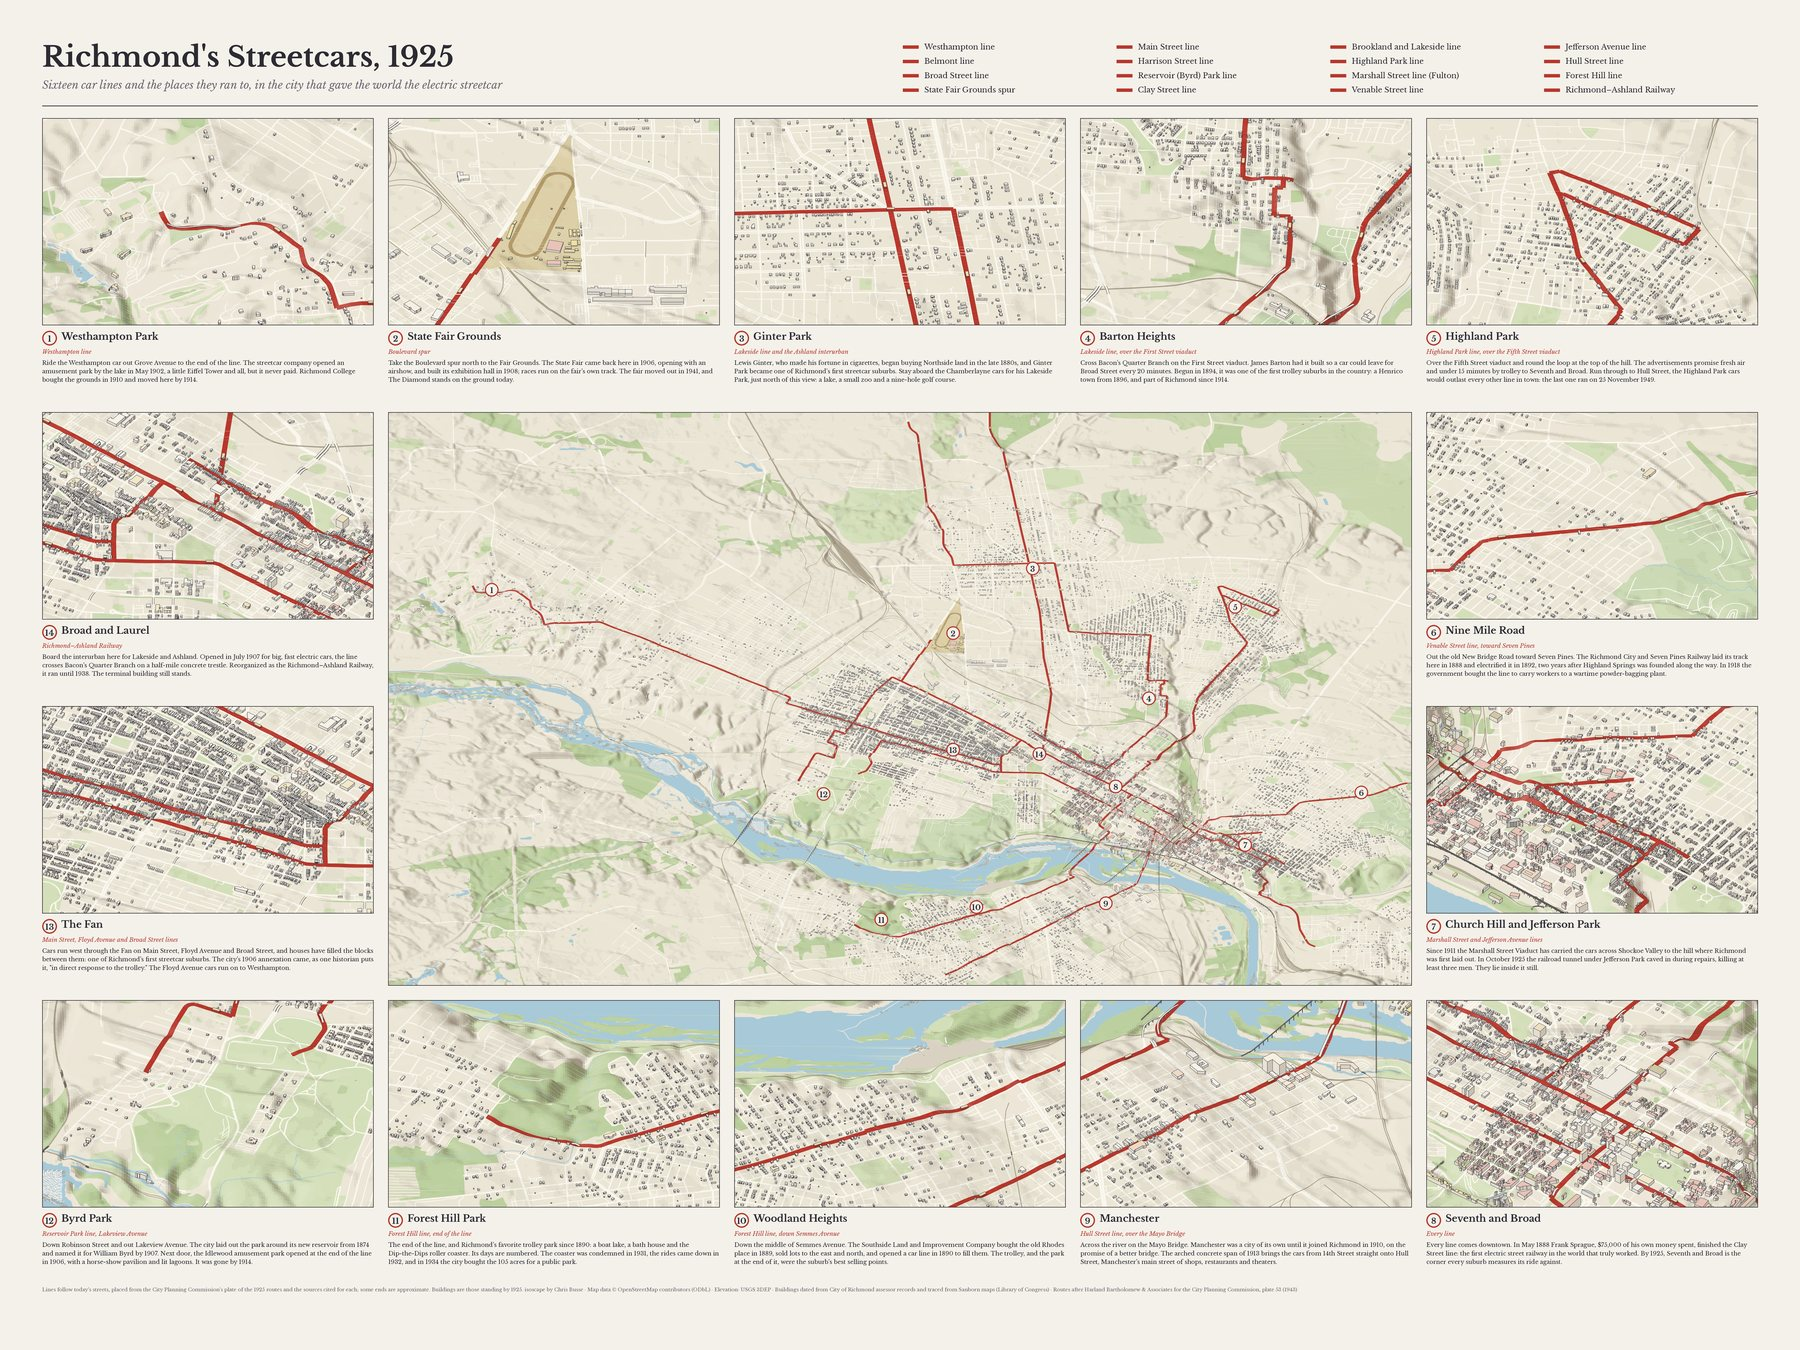
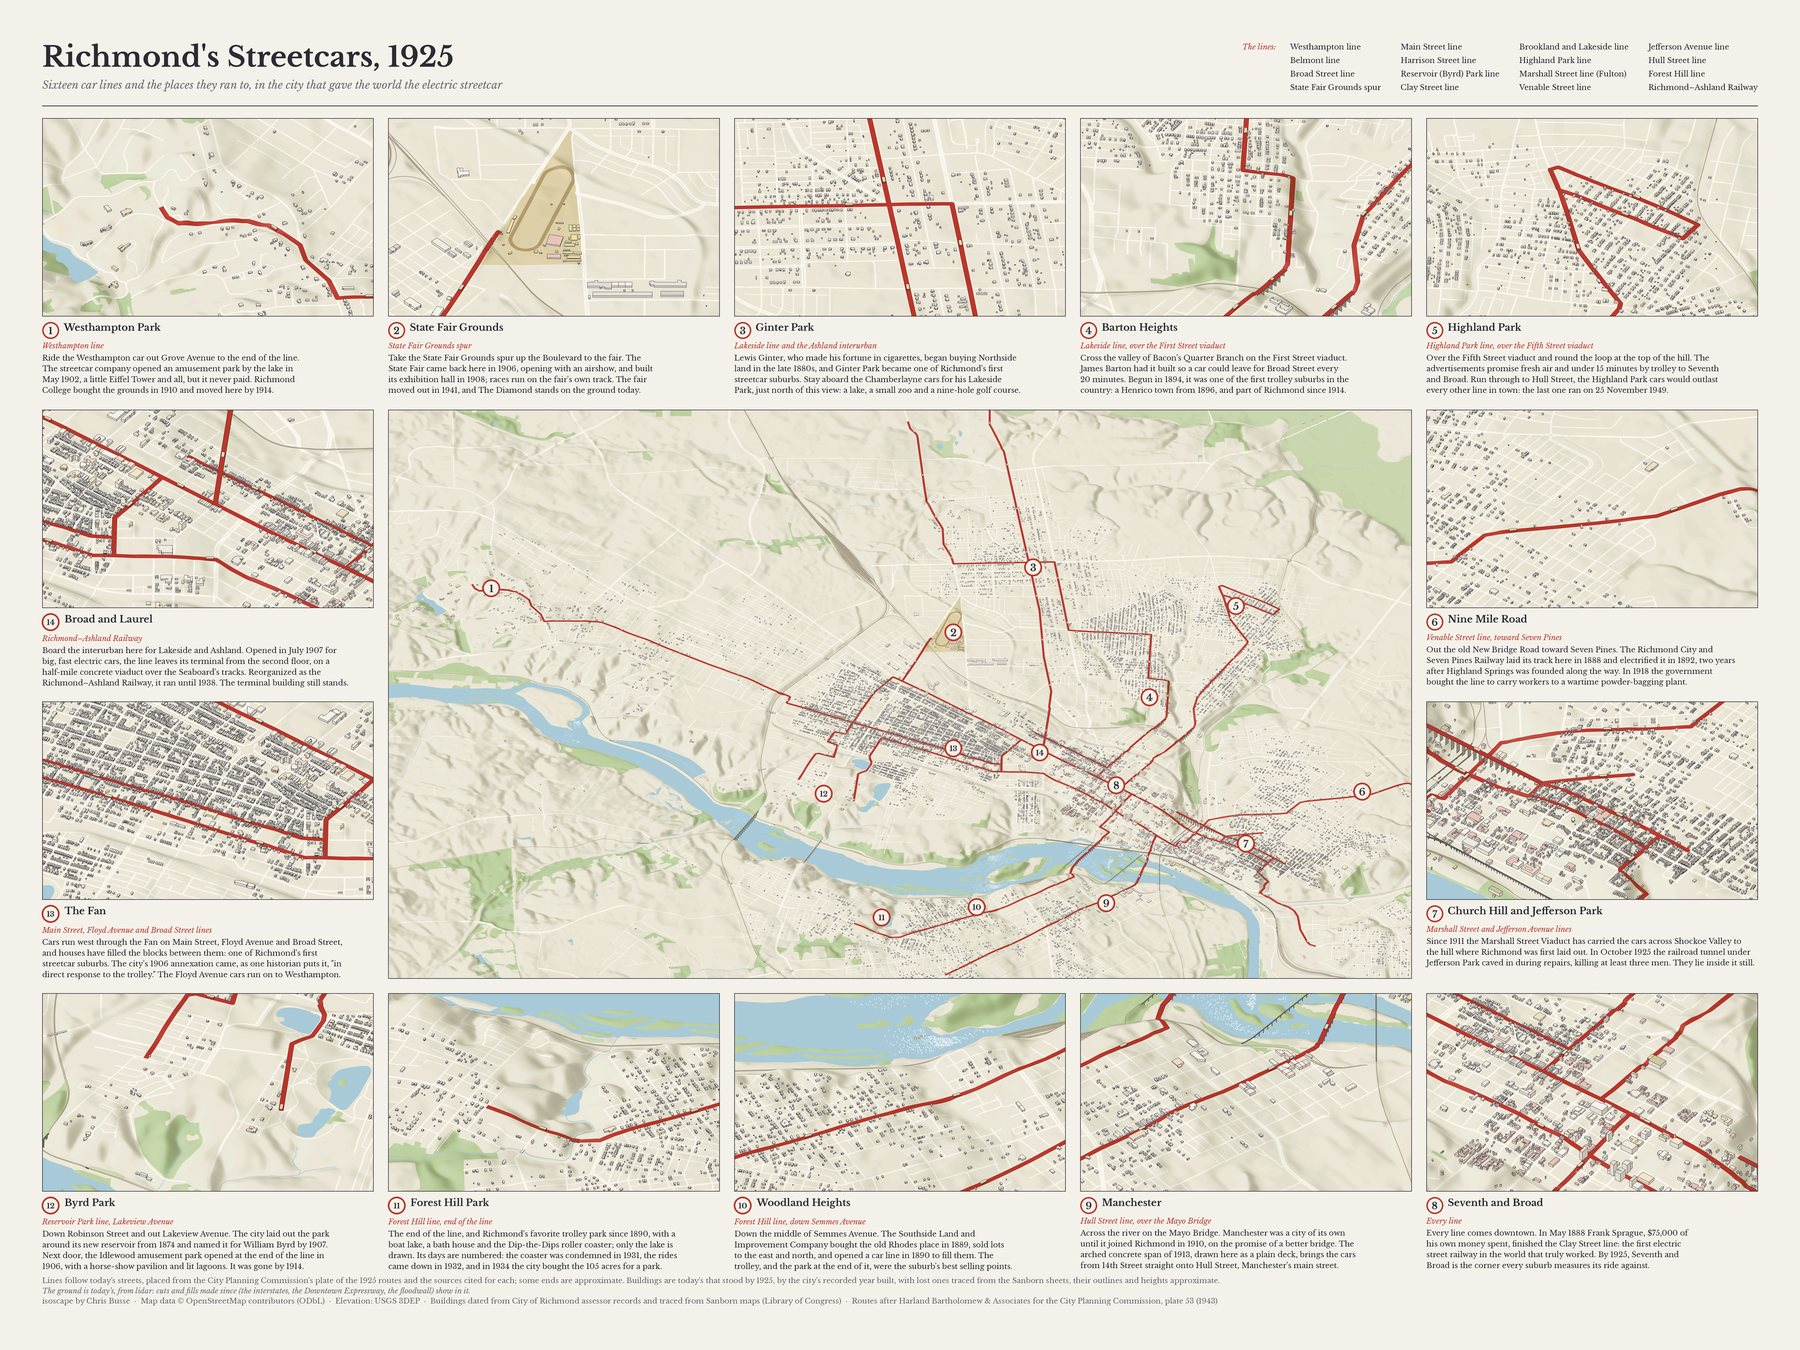
Streetcars page: regenerated from the set (box 2 named the State Fair Grounds spur; box 4 and 9 notes; new menu image)
Claude-Session: https://claude.ai/code/session_01BmucdKVM8FF97Ya9PzpVZh

diff --git a/pages/streetcars.md b/pages/streetcars.md
@@ -21,15 +21,15 @@ By May 1888 Frank Sprague's electric cars were running on Richmond's hills, the 
 
 Ride the Westhampton car out Grove Avenue to the end of the line. The streetcar company opened an amusement park by the lake in May 1902, a little Eiffel Tower and all, but it never paid. Richmond College bought the grounds in 1910 and moved here by 1914.
 
-[See it on the map](https://busse.github.io/isoscape/#richmond-streetcars:1925@-2388,-666,6) · Sources: [1](https://magazine.richmond.edu/article/-/25779) [2](https://libguides.richmond.edu/GamblesMillProject)
+[See it on the map](https://busse.github.io/isoscape/#richmond-streetcars:1925@-2388,-667,6) · Sources: [1](https://magazine.richmond.edu/article/-/25779) [2](https://libguides.richmond.edu/GamblesMillProject)
 
 ### 2. State Fair Grounds
 
-*Boulevard spur*
+*State Fair Grounds spur*
 
-Take the Boulevard spur north to the Fair Grounds. The State Fair came back here in 1906, opening with an airshow, and built its exhibition hall in 1908; races run on the fair's own track. The fair moved out in 1941, and The Diamond stands on the ground today.
+Take the State Fair Grounds spur up the Boulevard to the fair. The State Fair came back here in 1906, opening with an airshow, and built its exhibition hall in 1908; races run on the fair's own track. The fair moved out in 1941, and The Diamond stands on the ground today.
 
-[See it on the map](https://busse.github.io/isoscape/#richmond-streetcars:1925@311,-412,6) · Sources: [1](https://richmondfamilymagazine.com/community/history/how-and-where-the-state-fair-started/) [2](https://en.wikipedia.org/wiki/Richmond_Arena) [3](https://www.purethunderracing.com/?p=6184) [4](https://urbanscalerichmondvirginia.blogspot.com/2014/12/a-brief-history-of-sports-complex-in.html)
+[See it on the map](https://busse.github.io/isoscape/#richmond-streetcars:1925@311,-410,6) · Sources: [1](https://richmondfamilymagazine.com/community/history/how-and-where-the-state-fair-started/) [2](https://en.wikipedia.org/wiki/Richmond_Arena) [3](https://www.purethunderracing.com/?p=6184) [4](https://urbanscalerichmondvirginia.blogspot.com/2014/12/a-brief-history-of-sports-complex-in.html)
 
 ### 3. Ginter Park
 
@@ -37,13 +37,13 @@ Take the Boulevard spur north to the Fair Grounds. The State Fair came back here
 
 Lewis Ginter, who made his fortune in cigarettes, began buying Northside land in the late 1880s, and Ginter Park became one of Richmond's first streetcar suburbs. Stay aboard the Chamberlayne cars for his Lakeside Park, just north of this view: a lake, a small zoo and a nine-hole golf course.
 
-[See it on the map](https://busse.github.io/isoscape/#richmond-streetcars:1925@777,-791,6) · Sources: [1](https://www.lewisginter.org/visit/about/history/major-lewis-ginter/) [2](https://magazine.vcu.edu/2025-winter/a-streetcar-undesired/)
+[See it on the map](https://busse.github.io/isoscape/#richmond-streetcars:1925@777,-789,6) · Sources: [1](https://www.lewisginter.org/visit/about/history/major-lewis-ginter/) [2](https://magazine.vcu.edu/2025-winter/a-streetcar-undesired/)
 
 ### 4. Barton Heights
 
 *Lakeside line, over the First Street viaduct*
 
-Cross Bacon's Quarter Branch on the First Street viaduct. James Barton had it built so a car could leave for Broad Street every 20 minutes. Begun in 1894, it was one of the first trolley suburbs in the country: a Henrico town from 1896, and part of Richmond since 1914.
+Cross the valley of Bacon's Quarter Branch on the First Street viaduct. James Barton had it built so a car could leave for Broad Street every 20 minutes. Begun in 1894, it was one of the first trolley suburbs in the country: a Henrico town from 1896, and part of Richmond since 1914.
 
 [See it on the map](https://busse.github.io/isoscape/#richmond-streetcars:1925@1456,-31,6) · Sources: [1](https://richmondmagazine.com/news/richmond-history/barton%20heights%20the%20valentine%20community%20conversations/) [2](https://www.dhr.virginia.gov/historic-registers/127-0816/) [3](https://www.dhr.virginia.gov/?p=16934)
 
@@ -53,7 +53,7 @@ Cross Bacon's Quarter Branch on the First Street viaduct. James Barton had it bu
 
 Over the Fifth Street viaduct and round the loop at the top of the hill. The advertisements promise fresh air and under 15 minutes by trolley to Seventh and Broad. Run through to Hull Street, the Highland Park cars would outlast every other line in town: the last one ran on 25 November 1949.
 
-[See it on the map](https://busse.github.io/isoscape/#richmond-streetcars:1925@1961,-565,6) · Sources: [1](https://blog.richmond.edu/walkingrichmond/2017/04/26/disconnected) [2](https://richmondmagazine.com/news/richmond-history/richmond-trolley-system/) [3](https://npgallery.nps.gov/NRHP/GetAsset/NRHP/64500796_text)
+[See it on the map](https://busse.github.io/isoscape/#richmond-streetcars:1925@1961,-564,6) · Sources: [1](https://blog.richmond.edu/walkingrichmond/2017/04/26/disconnected) [2](https://richmondmagazine.com/news/richmond-history/richmond-trolley-system/) [3](https://npgallery.nps.gov/NRHP/GetAsset/NRHP/64500796_text)
 
 ### 6. Nine Mile Road
 
@@ -69,7 +69,7 @@ Out the old New Bridge Road toward Seven Pines. The Richmond City and Seven Pine
 
 Since 1911 the Marshall Street Viaduct has carried the cars across Shockoe Valley to the hill where Richmond was first laid out. In October 1925 the railroad tunnel under Jefferson Park caved in during repairs, killing at least three men. They lie inside it still.
 
-[See it on the map](https://busse.github.io/isoscape/#richmond-streetcars:1925@2019,826,6) · Sources: [1](https://www.wikipedia.org/wiki/Church_Hill,_Richmond,_Virginia) [2](https://gallery.library.vcu.edu/exhibits/show/mcv-aerial-photography/shockoe-valley-viaducts) [3](https://freepages.rootsweb.com/~howardlake/history/amusement12/jeffersonrichmondva.html) [4](https://www.atlasobscura.com/places/church-hill-tunnel)
+[See it on the map](https://busse.github.io/isoscape/#richmond-streetcars:1925@2019,823,6) · Sources: [1](https://www.wikipedia.org/wiki/Church_Hill,_Richmond,_Virginia) [2](https://gallery.library.vcu.edu/exhibits/show/mcv-aerial-photography/shockoe-valley-viaducts) [3](https://freepages.rootsweb.com/~howardlake/history/amusement12/jeffersonrichmondva.html) [4](https://www.atlasobscura.com/places/church-hill-tunnel)
 
 ### 8. Seventh and Broad
 
@@ -77,15 +77,15 @@ Since 1911 the Marshall Street Viaduct has carried the cars across Shockoe Valle
 
 Every line comes downtown. In May 1888 Frank Sprague, $75,000 of his own money spent, finished the Clay Street line: the first electric street railway in the world that truly worked. By 1925, Seventh and Broad is the corner every suburb measures its ride against.
 
-[See it on the map](https://busse.github.io/isoscape/#richmond-streetcars:1925@1262,484,6) · Sources: [1](https://magazine.vcu.edu/2025-winter/a-streetcar-undesired/) [2](https://blog.richmond.edu/walkingrichmond/2017/04/26/disconnected) [3](https://www.americanheritage.com/gems-symmetry-and-convenience)
+[See it on the map](https://busse.github.io/isoscape/#richmond-streetcars:1925@1262,483,6) · Sources: [1](https://magazine.vcu.edu/2025-winter/a-streetcar-undesired/) [2](https://blog.richmond.edu/walkingrichmond/2017/04/26/disconnected) [3](https://www.americanheritage.com/gems-symmetry-and-convenience)
 
 ### 9. Manchester
 
 *Hull Street line, over the Mayo Bridge*
 
-Across the river on the Mayo Bridge. Manchester was a city of its own until it joined Richmond in 1910, on the promise of a better bridge. The arched concrete span of 1913 brings the cars from 14th Street straight onto Hull Street, Manchester's main street of shops, restaurants and theaters.
+Across the river on the Mayo Bridge. Manchester was a city of its own until it joined Richmond in 1910, on the promise of a better bridge. The arched concrete span of 1913, drawn here as a plain deck, brings the cars from 14th Street straight onto Hull Street, Manchester's main street.
 
-[See it on the map](https://busse.github.io/isoscape/#richmond-streetcars:1925@1204,1168,6) · Sources: [1](https://architecturerichmond.com/?p=3761) [2](https://richmondmagazine.com/news/richmond-history/manchester-history/) [3](https://www.dhr.virginia.gov/historic-registers/127-0859/)
+[See it on the map](https://busse.github.io/isoscape/#richmond-streetcars:1925@1204,1172,6) · Sources: [1](https://architecturerichmond.com/?p=3761) [2](https://richmondmagazine.com/news/richmond-history/manchester-history/) [3](https://www.dhr.virginia.gov/historic-registers/127-0859/)
 
 ### 10. Woodland Heights
 
@@ -93,15 +93,15 @@ Across the river on the Mayo Bridge. Manchester was a city of its own until it j
 
 Down the middle of Semmes Avenue. The Southside Land and Improvement Company bought the old Rhodes place in 1889, sold lots to the east and north, and opened a car line in 1890 to fill them. The trolley, and the park at the end of it, were the suburb's best selling points.
 
-[See it on the map](https://busse.github.io/isoscape/#richmond-streetcars:1925@446,1190,6) · Sources: [1](https://rvanews.com/?p=20228) [2](https://tclf.org/forest-hill-park-va) [3](https://sah-archipedia.org/node/1321)
+[See it on the map](https://busse.github.io/isoscape/#richmond-streetcars:1925@446,1194,6) · Sources: [1](https://rvanews.com/?p=20228) [2](https://tclf.org/forest-hill-park-va) [3](https://sah-archipedia.org/node/1321)
 
 ### 11. Forest Hill Park
 
 *Forest Hill line, end of the line*
 
-The end of the line, and Richmond's favorite trolley park since 1890: a boat lake, a bath house and the Dip-the-Dips roller coaster. Its days are numbered. The coaster was condemned in 1931, the rides came down in 1932, and in 1934 the city bought the 105 acres for a public park.
+The end of the line, and Richmond's favorite trolley park since 1890, with a boat lake, a bath house and the Dip-the-Dips roller coaster; only the lake is drawn. Its days are numbered: the coaster was condemned in 1931, the rides came down in 1932, and in 1934 the city bought the 105 acres for a park.
 
-[See it on the map](https://busse.github.io/isoscape/#richmond-streetcars:1925@-109,1264,6) · Sources: [1](https://tclf.org/forest-hill-park-va) [2](https://richmondfamilymagazine.com/community/history/richmonds-original-theme-park/) [3](https://www.hmdb.org/m.asp?m=28854) [4](https://npgallery.nps.gov/NRHP/GetAsset/NRHP/64500796_text)
+[See it on the map](https://busse.github.io/isoscape/#richmond-streetcars:1925@-109,1255,6) · Sources: [1](https://tclf.org/forest-hill-park-va) [2](https://richmondfamilymagazine.com/community/history/richmonds-original-theme-park/) [3](https://www.hmdb.org/m.asp?m=28854) [4](https://npgallery.nps.gov/NRHP/GetAsset/NRHP/64500796_text)
 
 ### 12. Byrd Park
 
@@ -109,7 +109,7 @@ The end of the line, and Richmond's favorite trolley park since 1890: a boat lak
 
 Down Robinson Street and out Lakeview Avenue. The city laid out the park around its new reservoir from 1874 and named it for William Byrd by 1907. Next door, the Idlewood amusement park opened at the end of the line in 1906, with a horse-show pavilion and lit lagoons. It was gone by 1914.
 
-[See it on the map](https://busse.github.io/isoscape/#richmond-streetcars:1925@-446,529,6) · Sources: [1](https://www.tclf.org/landscapes/byrd-park) [2](https://www.dalebrumfield.net/single-post/2014/05/03/part-7-live-fast-die-hard-richmond-s-idlewood-amusement-park) [3](https://en.wikipedia.org/wiki/Byrd_Park)
+[See it on the map](https://busse.github.io/isoscape/#richmond-streetcars:1925@-446,532,6) · Sources: [1](https://www.tclf.org/landscapes/byrd-park) [2](https://www.dalebrumfield.net/single-post/2014/05/03/part-7-live-fast-die-hard-richmond-s-idlewood-amusement-park) [3](https://en.wikipedia.org/wiki/Byrd_Park)
 
 ### 13. The Fan
 
@@ -117,15 +117,15 @@ Down Robinson Street and out Lakeview Avenue. The city laid out the park around 
 
 Cars run west through the Fan on Main Street, Floyd Avenue and Broad Street, and houses have filled the blocks between them: one of Richmond's first streetcar suburbs. The city's 1906 annexation came, as one historian puts it, "in direct response to the trolley." The Floyd Avenue cars run on to Westhampton.
 
-[See it on the map](https://busse.github.io/isoscape/#richmond-streetcars:1925@311,270,6) · Sources: [1](https://magazine.vcu.edu/2025-winter/a-streetcar-undesired/) [2](https://dhr.virginia.gov/VLR_to_transfer/PDFNoms/127-6064_Three_Chopt_Road_HD_2012_NR_FINAL.pdf)
+[See it on the map](https://busse.github.io/isoscape/#richmond-streetcars:1925@311,267,6) · Sources: [1](https://magazine.vcu.edu/2025-winter/a-streetcar-undesired/) [2](https://dhr.virginia.gov/VLR_to_transfer/PDFNoms/127-6064_Three_Chopt_Road_HD_2012_NR_FINAL.pdf)
 
 ### 14. Broad and Laurel
 
 *Richmond–Ashland Railway*
 
-Board the interurban here for Lakeside and Ashland. Opened in July 1907 for big, fast electric cars, the line crosses Bacon's Quarter Branch on a half-mile concrete trestle. Reorganized as the Richmond–Ashland Railway, it ran until 1938. The terminal building still stands.
+Board the interurban here for Lakeside and Ashland. Opened in July 1907 for big, fast electric cars, the line leaves its terminal from the second floor, on a half-mile concrete viaduct over the Seaboard's tracks. Reorganized as the Richmond–Ashland Railway, it ran until 1938. The terminal building still stands.
 
-[See it on the map](https://busse.github.io/isoscape/#richmond-streetcars:1925@815,295,6) · Sources: [1](https://pantographblog.blogspot.com/2009/08/richmond-and-chesapeake-bay-railway.html) [2](https://american-rails.com/vgainterstrethsy.html)
+[See it on the map](https://busse.github.io/isoscape/#richmond-streetcars:1925@815,292,6) · Sources: [1](https://pantographblog.blogspot.com/2009/08/richmond-and-chesapeake-bay-railway.html) [2](https://american-rails.com/vgainterstrethsy.html) [3](https://varails.com/trolley-lines/the-richmond-ashland-railway)
 
 ## The lines
 
